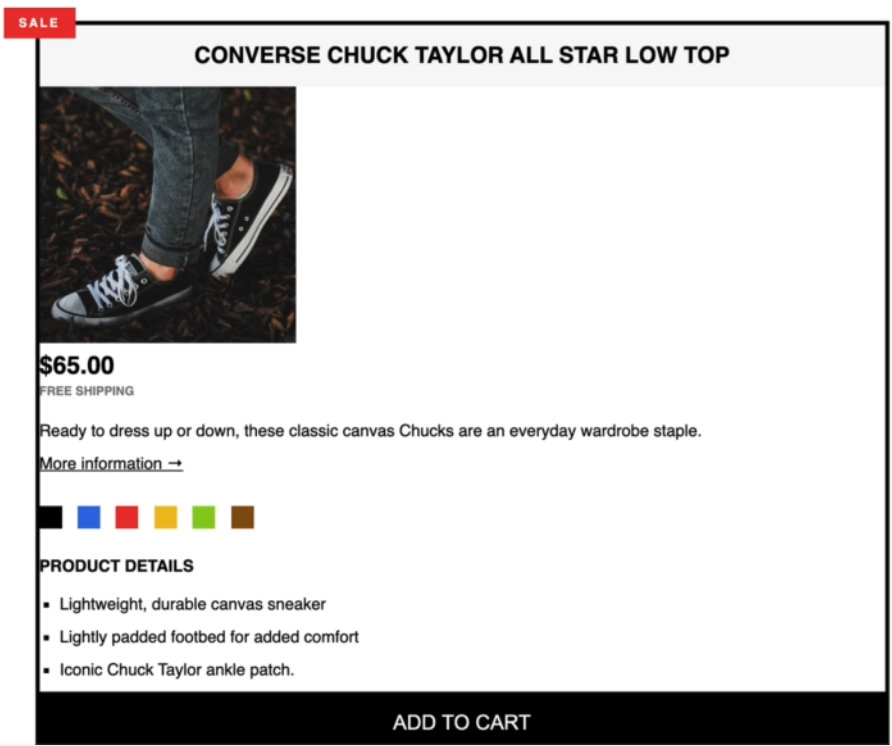
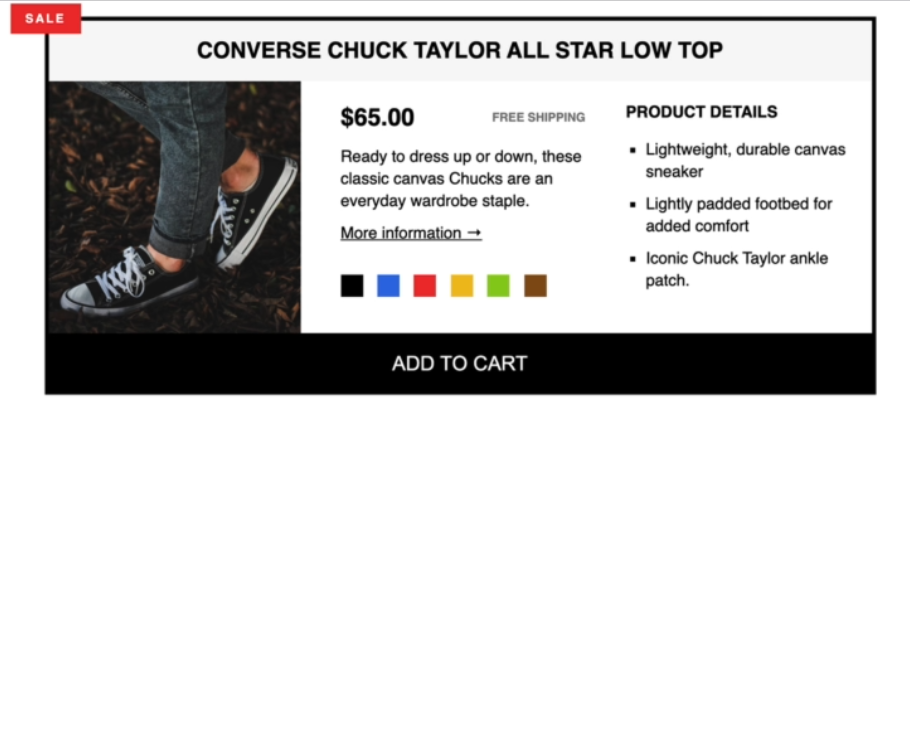
Challenge #2

diff --git a/04 - Layouts Floats, Flexbox, and CSS Grid Fundamentals/Challenge #2/style.css b/04 - Layouts Floats, Flexbox, and CSS Grid Fundamentals/Challenge #2/style.css
@@ -10,14 +10,13 @@ body {
 }
 
 .container {
-  /* background-color: red; */
 }
 
-.clearfix::after {
+/* .clearfix::after {
   content: "";
   display: block;
   clear: both;
-}
+} */
 
 .product {
   border: 4px solid black;
@@ -37,7 +36,7 @@ body {
 .price {
   font-size: 24px;
   font-weight: bold;
-  float: left;
+  /* float: left; */
   /* margin-bottom: 20px; */
 }
 
@@ -46,13 +45,13 @@ body {
   text-transform: uppercase;
   font-weight: bold;
   color: #777;
-  margin-bottom: 20px;
+  /*
   margin-top: 8px;
-  float: right;
+  float: right; */
 }
 
 .product-description {
-  clear: both;
+  /* clear: both; */
   margin-bottom: 10px;
 }
 
@@ -93,7 +92,7 @@ body {
   padding: 15px;
   width: 100%;
   border-top: 4px solid #000;
-  clear: both;
+  /* clear: both; */
 }
 
 .add-cart:hover {
@@ -114,15 +113,21 @@ body {
   left: -38px;
 }
 
-.color-parent {
+.product-colors {
   margin-bottom: 20px;
+  /* background-color: #aea3bc; */
 }
 
 .color-child {
-  display: inline-block;
+  /* display: inline-block; */
   width: 20px;
   height: 20px;
-  margin-right: 10px;
+  /* margin-right: 10px; */
+}
+
+.product-colors {
+  display: flex;
+  gap: 10px;
 }
 
 .child-1 {
@@ -151,19 +156,40 @@ body {
 }
 
 .product-image {
-  float: left;
+  /* float: left; */
 }
 
 .product-info {
-  float: left;
-  margin-left: 40px;
+  /* float: left; */
+  /* margin-left: 40px; */
   margin-top: 20px;
-  width: 243px;
+  /* width: 243px; */
 }
 
 .product-details {
-  float: left;
-  margin-top: 20px;
-  margin-left: 40px;
-  width: 243px;
+  /* float: left; */
+  /* margin-top: 20px; */
+  /* margin-left: 40px; */
+  /* width: 243px; */
+}
+
+.container {
+  display: flex;
+  gap: 40px;
+  align-items: center;
+}
+
+.product-info {
+  flex: 1;
+}
+
+.product-details {
+  flex: 1;
+}
+
+.product-price {
+  display: flex;
+  justify-content: space-between;
+  align-items: center;
+  margin-bottom: 20px;
 }

diff --git a/04 - Layouts Floats, Flexbox, and CSS Grid Fundamentals/Challenge #2/index.html b/04 - Layouts Floats, Flexbox, and CSS Grid Fundamentals/Challenge #2/index.html
@@ -20,8 +20,10 @@
         />
 
         <div class="product-info">
-          <p class="price"><strong>$65.00</strong></p>
-          <p class="shipping">Free shipping</p>
+          <div class="product-price">
+            <p class="price"><strong>$65.00</strong></p>
+            <p class="shipping">Free shipping</p>
+          </div>
           <p class="sale">SALE</p>
           <p class="product-description">
             Ready to dress up or down, these classic canvas Chucks are an
@@ -32,7 +34,7 @@
             >More information &rarr;</a
           >
 
-          <div class="color-parent">
+          <div class="product-colors">
             <div class="color-child child-1"></div>
             <div class="color-child child-2"></div>
             <div class="color-child child-3"></div>

diff --git a/04 - Layouts Floats, Flexbox, and CSS Grid Fundamentals/Challenge #2/problem-statement.md b/04 - Layouts Floats, Flexbox, and CSS Grid Fundamentals/Challenge #2/problem-statement.md
@@ -1,1 +1,1 @@
-style the article that that was built as a challange in the Challenge #2 in the section of CSS. It must look time the article-template.png but this time using flexbox
+use flexbox to build the final layout
